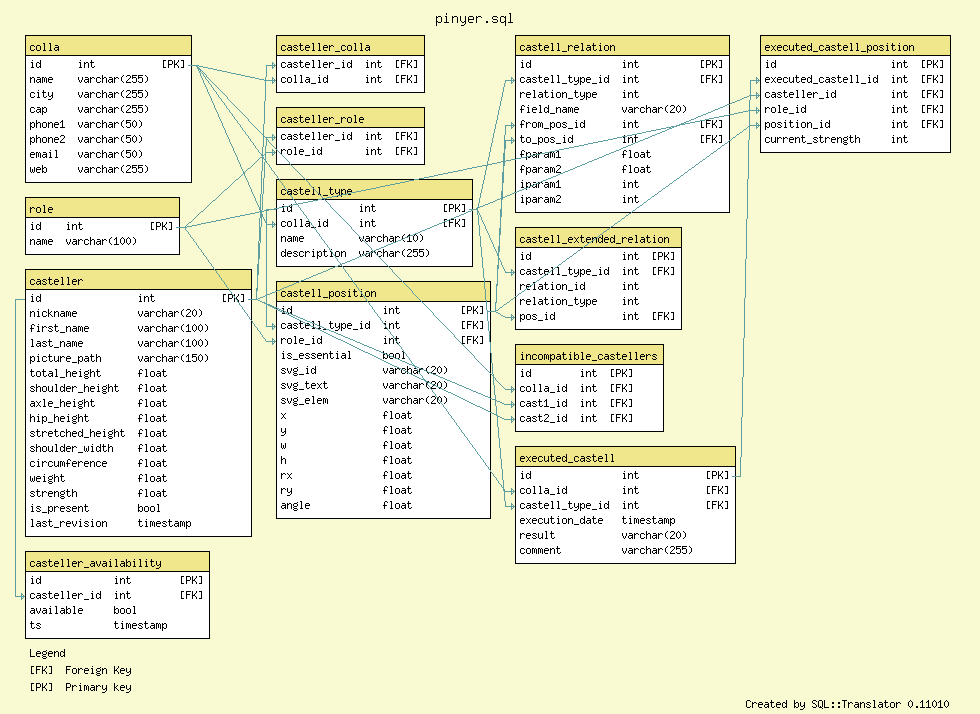
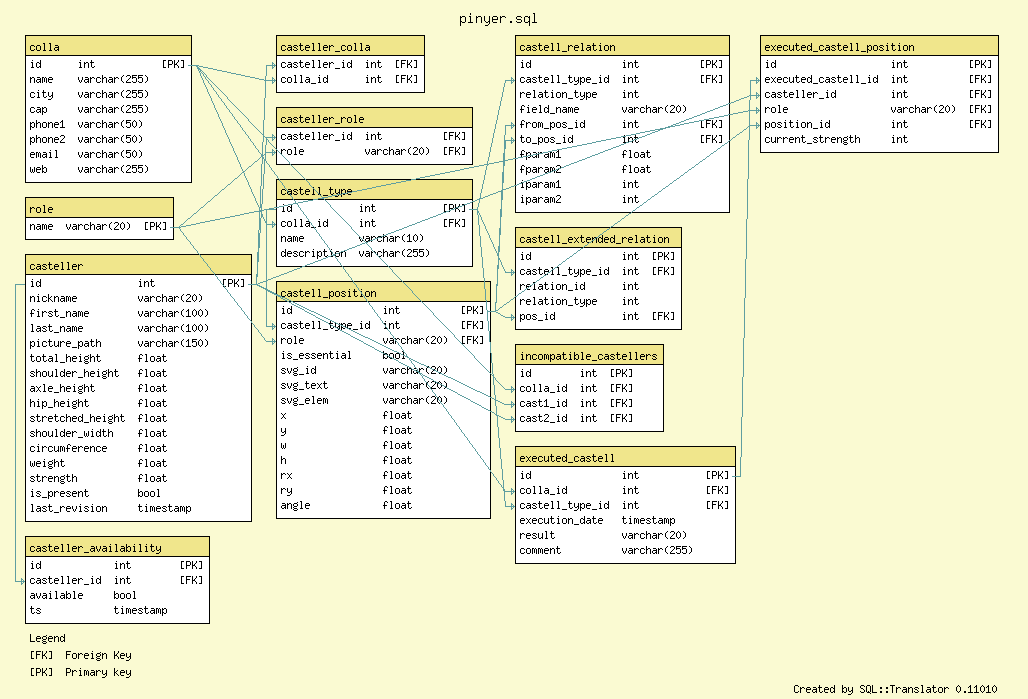
database work

Changed region(s): [[0.0, 0.0, 0.9796, 0.9914], [0.7653, 0.9614, 0.9796, 1.0]]

diff --git a/python/create_pinya.py b/python/create_pinya.py
@@ -1,7 +1,7 @@
 from math import cos, sin, pi
 from html_common import svg_rect, svg_head
 
-def ring(period, i, r, rect_dim, init_svg_id, position_id_at, coo_of):
+def ring(period, i, r, rect_dim, init_svg_id, position_at, coo_of):
     """
     create the svg elements in the outer rings.
     period = k if the ring has 2pi/k symmetry
@@ -13,7 +13,7 @@ def ring(period, i, r, rect_dim, init_svg_id, position_id_at, coo_of):
     returns:
     svg: the string with the svg representation
     svg_id: the next free id number
-    position_id_at: The dictionary telling the id of an element at the position (j, s)
+    position_at: The dictionary telling the id of an element at the position (j, s)
     coo_of: the coordinates of an element with a certain id
     """
     svg = ''
@@ -26,21 +26,30 @@ def ring(period, i, r, rect_dim, init_svg_id, position_id_at, coo_of):
             if m == 0:
                 if j%2 == 0:
                     c = 'ma'  # Ma
+                    role = 'ma'
                 else:
                     c = 'vt'  # Vent
+                    role = 'vent'
             else:
                 c = 'q'       # Quesito
+                role = 'pinya'
             x=round(r*cos(a), 2)
             y=round(r*sin(a), 2)
+            alpha = round(a*180/pi, 2)
             svg = svg + svg_rect.substitute(_x=x, _y=y, \
                                                 _rx=-0.5*rect_dim['w'], _ry=-0.5*rect_dim['h'], \
                                                 _rw=rect_dim['w'], _rh=rect_dim['h'], \
-                                                _alpha=a*180/pi, \
+                                                _alpha=alpha, \
                                                 _svg_id=svg_id, _class=c, _name=svg_id, \
                                                 _index_props=[i,j,m])
-            position_id_at[i,j,m] = svg_id
+            position_at[i,j,m] = dict([('svg_id', svg_id), \
+                                           ('role', role), \
+                                           ('svg_text', role), \
+                                           ('x', x), \
+                                           ('y', y), \
+                                           ('angle', alpha)])
             coo_of[svg_id] = [x,y]
-    return [svg, svg_id, position_id_at, coo_of]
+    return [svg, svg_id, position_at, coo_of]
 
 
 def make_rings(rd):
@@ -49,17 +58,17 @@ def make_rings(rd):
     svg += '<g id="pos">'
     svg_id = 0
     r = rd['start_radius']
-    position_id_at = dict()
+    position_at = dict()
     coo_of = dict()
     for i in range(rd['start_n_in_slice'], rd['end_n_in_slice']+1):
-        [_svg, svg_id, position_id_at, coo_of] = \
-            ring(rd['period'], i, r, rd['rect_dim'], svg_id, position_id_at, coo_of) 
+        [_svg, svg_id, position_at, coo_of] = \
+            ring(rd['period'], i, r, rd['rect_dim'], svg_id, position_at, coo_of) 
         svg += _svg
         r += rd['radius_offset']
     svg += '</g>'
-    return [svg, position_id_at, coo_of]
+    return [svg, position_at, coo_of]
 
-def make_ring_relations(rd, position_id_at, tolerance):
+def make_ring_relations(rd, position_at, tolerance):
     relations = []
 
     # first, the relations between rengles de mans and rengles de vents
@@ -69,8 +78,8 @@ def make_ring_relations(rd, position_id_at, tolerance):
         else:
             pt = 'vt'  # Vent
         for i in range(rd['start_n_in_slice'], rd['end_n_in_slice']):
-            relations.append(dict([('from_pos_id', position_id_at[i,j,0]), \
-                                       ('to_pos_id', position_id_at[i+1,j,0]), \
+            relations.append(dict([('from_pos_id', position_at[i,j,0]['svg_id']), \
+                                       ('to_pos_id', position_at[i+1,j,0]['svg_id']), \
                                        ('relation_type', 1), \
                                        ('field_name', 'shoulder_height'), \
                                        ('fparam1', tolerance), \
@@ -80,14 +89,14 @@ def make_ring_relations(rd, position_id_at, tolerance):
     for j in range(2*rd['period']):
         for i in range(rd['start_n_in_slice'], rd['end_n_in_slice']):
             for m in range(1, i+1):
-                relations.append(dict([('from_pos_id', position_id_at[i,j,m]), \
-                                           ('to_pos_id', position_id_at[i+1,j,m]), \
+                relations.append(dict([('from_pos_id', position_at[i,j,m]['svg_id']), \
+                                           ('to_pos_id', position_at[i+1,j,m]['svg_id']), \
                                            ('relation_type', 1), \
                                            ('field_name', 'shoulder_height'), \
                                            ('fparam1', tolerance), \
                                            ('pos_type', 'q')])) # quesito
-                relations.append(dict([('from_pos_id', position_id_at[i,j,m]), \
-                                           ('to_pos_id', position_id_at[i+1,j,m+1]), \
+                relations.append(dict([('from_pos_id', position_at[i,j,m]['svg_id']), \
+                                           ('to_pos_id', position_at[i+1,j,m+1]['svg_id']), \
                                            ('relation_type', 1), \
                                            ('field_name', 'shoulder_height'), \
                                            ('fparam1', tolerance), \
@@ -108,11 +117,21 @@ def tresde8f():
     ring_data = dict([('period', 3), ('start_n_in_slice', 1), ('end_n_in_slice', 3), \
                       ('start_radius', 100), ('radius_offset', 35), \
                       ('rect_dim', dict([('w',20),('h',40)]))])
-    [svg, position_id_at, coo_of] = make_rings(ring_data) 
+    [svg, position_at, coo_of] = make_rings(ring_data) 
     tolerance = 5 # the tolerance in height between successive mans and vents
-    relations = make_ring_relations(ring_data, position_id_at, tolerance)
-    relations_svg = make_relations_svg(relations, coo_of)
-    return svg + relations_svg + '</svg>'
+    relations = make_ring_relations(ring_data, position_at, tolerance)
+    svg += make_relations_svg(relations, coo_of) + '</svg>'
+    return [svg, position_at, relations]
 
+def save_tresde8f_relations():
+    [svg, position_at, relations] = tresde8f()
+    from db_interaction import get_db, write_positions, write_relations
+    db = get_db()
+    c = db.cursor()
+    c.execute("delete from castell_relation where id between 5 and 999")
+    c.execute("delete from castell_position where id between 6 and 999")
+    write_positions(db, 3, position_at)
+    write_relations(db, 3, relations)
+    
 if __name__ == "__main__":
-     print tresde8f()
+     save_tresde8f_relations()

diff --git a/python/db_interaction.py b/python/db_interaction.py
@@ -17,6 +17,25 @@ def get_positions(db, castell_type_id):
         position_data[int(row[0])] = dict([('role_id', int(row[1])), ('role_name', row[2]), ('is_essential', row[3]), ('svg_id', row[4]), ('svg_text', row[5]), ('svg_elem', row[6]), ('x', row[7]), ('y', row[8]), ('w', row[9]), ('h', row[10]), ('rx', row[11]), ('ry', row[12])])
     return position_data
 
+def write_positions(db, castell_type_id, position_at):
+    """ 
+    writes the positions of the given castell to the database
+    """
+    c = db.cursor()
+    vals = []
+    for pos_id, pos in position_at.iteritems():
+        vals.append((3, \
+                         pos['role'], \
+                         pos['svg_id'], \
+                         pos['svg_text'], \
+                         pos['x'], \
+                         pos['y'], \
+                         pos['angle']))
+    query = """insert into castell_position (castell_type_id, role, svg_id, svg_text, x, y, angle)
+         values (%s, %s, %s, %s, %s, %s, %s)"""
+    print query
+    print vals
+    c.executemany(query, vals)
 
 def get_castell(db, castell_type_id):
     """
@@ -96,6 +115,24 @@ def get_relations(db, castell_type_id):
     for row in res:
         ans.append(dict([('id', int(row[0])), ('castell_type_id', int(row[1])), ('relation_type', int(row[2])), ('field_name', row[3]), ('from_pos_id', row[4]), ('to_pos_id', row[5]), ('fparam1', row[6]), ('fparam2', row[7]), ('iparam2', row[8]), ('iparam2', row[9])]))
     return ans
+
+def write_relations(db, castell_type_id, relations):
+    """ 
+    writes the relations of the given castell to the database
+    """
+    c = db.cursor()
+    vals = []
+    for rel in relations:
+        vals.append((3, \
+                         rel['from_pos_id'], \
+                         rel['to_pos_id'], \
+                         rel['relation_type'], \
+                         rel['field_name'], 
+                         rel['fparam1']))
+    query = """insert into castell_relation (castell_type_id, from_pos_id, to_pos_id, relation_type, field_name, fparam1) 
+         values (%s, %s, %s, %s, %s, %s)"""
+    c.executemany(query, vals)
+    
 
 def get_incompatible_castellers(db, colla_id):
     """

diff --git a/www/info.py b/www/info.py
@@ -44,8 +44,8 @@ if what=='get_colla':
 
 if what=='get_pinya':
     pinya_id = form["pinya_id"].value
-    pinya = tresde8f()
-    print pinya
+    [pinya_svg, relations] = tresde8f()
+    print pinya_svg
 
 else:
     print "Unexpected argument: ", what
